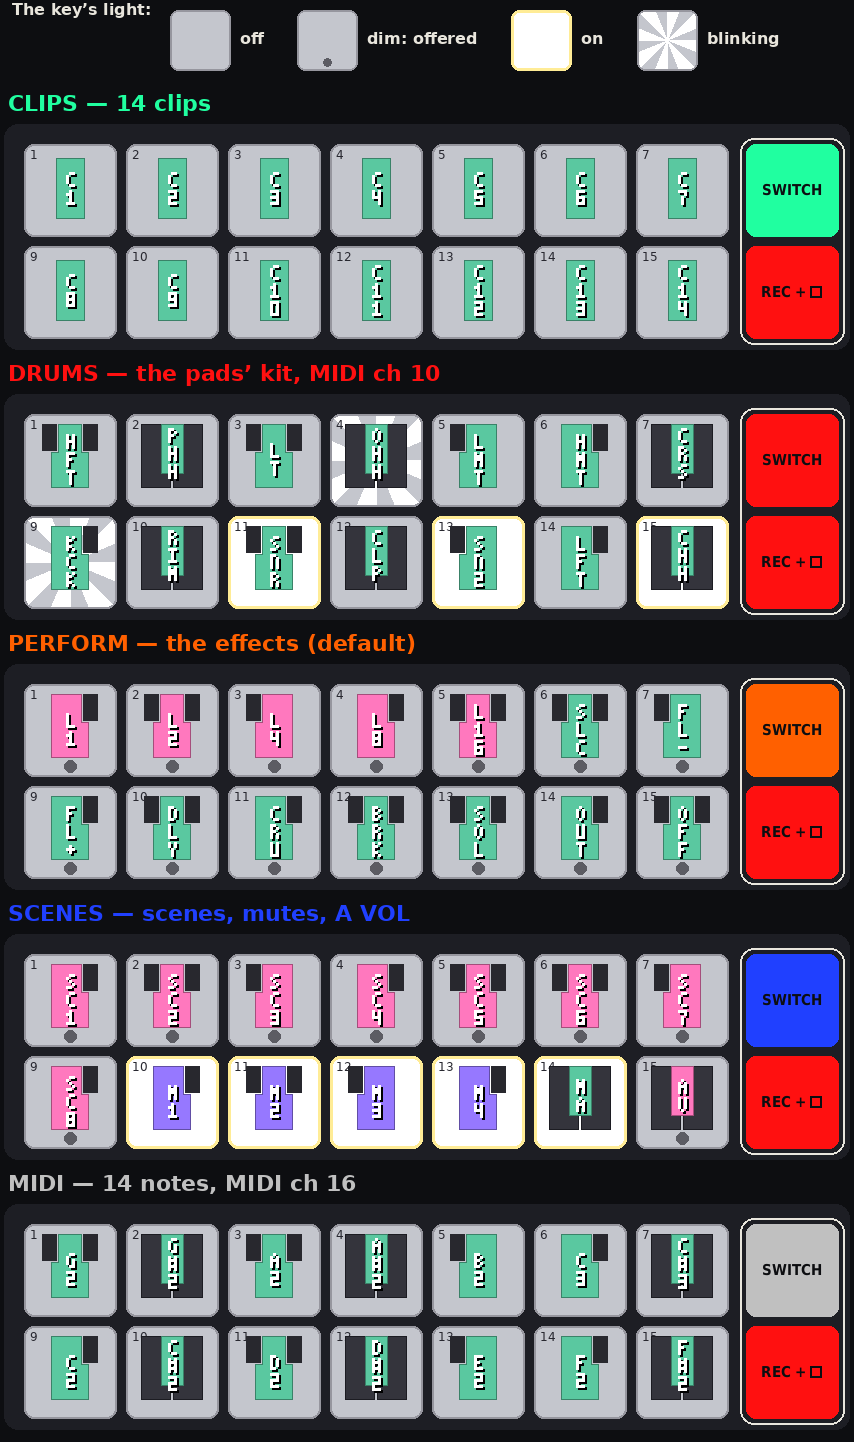
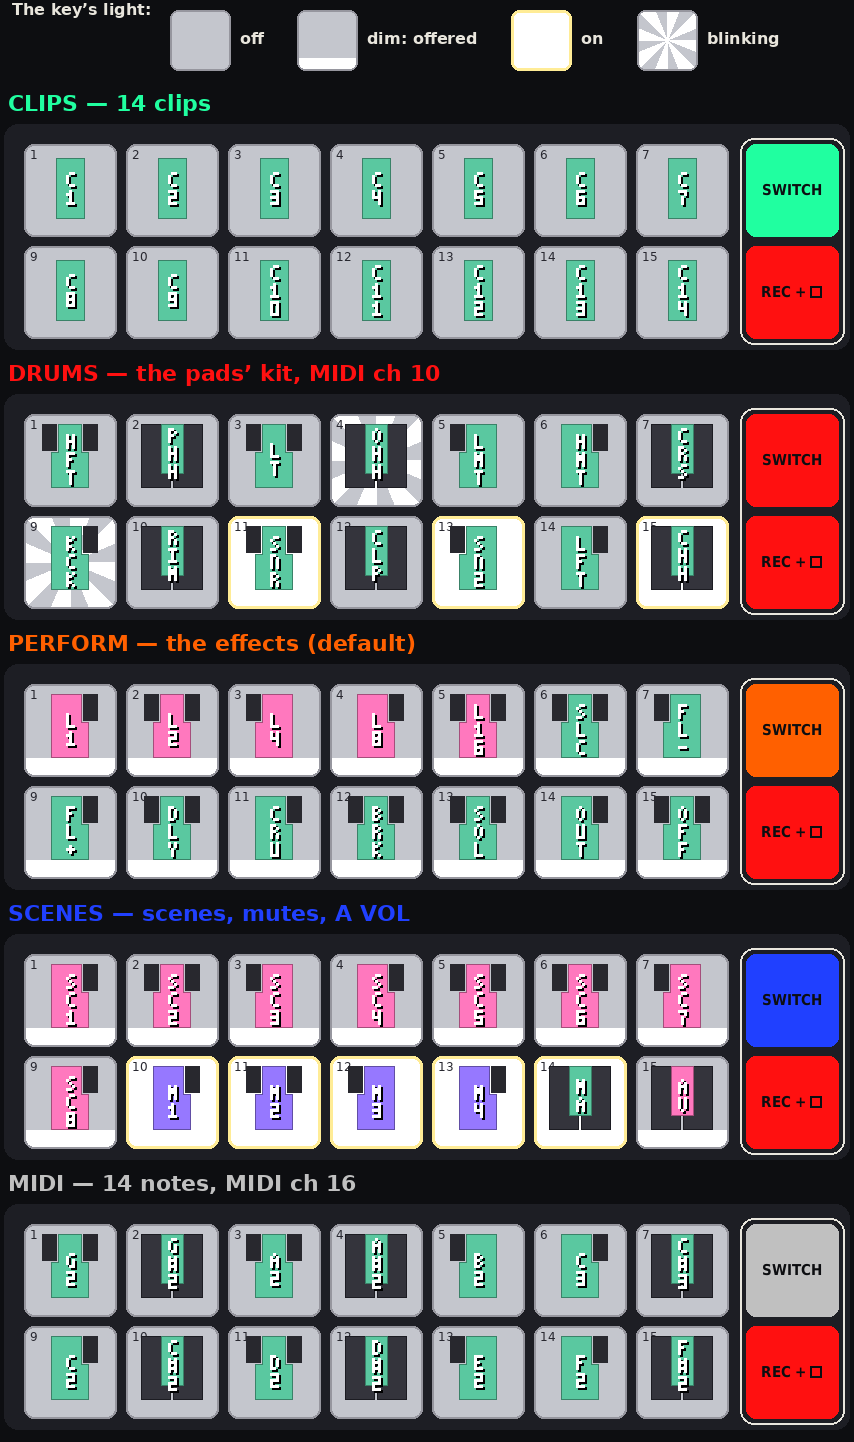
Pads as keys: offered = a white band at the bottom of the pad
Claude-Session: https://claude.ai/code/session_01N9f4HJn3ZZ4mEGDi7YNfQW

diff --git a/docs/_FR/22-reperes-ecran-et-menus.md b/docs/_FR/22-reperes-ecran-et-menus.md
@@ -228,7 +228,7 @@ Trois niveaux de lecture. 1 — tous les modes en toutes lettres, dans les coule
 
 <p align="center"><img src="../img/pads-all-modes-short.png" width="560" alt="pads"></p>
 
-3 — chaque pad avec la touche qu’il remplace, comme le clavier à l’écran la dessine (même fonction, même couleur : rose = validé au relâché sur le clavier, menthe = agit tout de suite, violet = piste qui joue ; une touche noire entre ses deux blanches gris foncé). Le fond du pad montre la lumière de cette touche par défaut, couche tenue, en lecture, les quatre pistes qui jouent : gris clair éteinte, pastille grise en bas proposée, blanc vif allumée, rayons blancs sur gris clignotante (en DRUMS, une piste de batterie : grosses caisses et charley ouvert clignotent, caisses claires et charley fermé allumés) :
+3 — chaque pad avec la touche qu’il remplace, comme le clavier à l’écran la dessine (même fonction, même couleur : rose = validé au relâché sur le clavier, menthe = agit tout de suite, violet = piste qui joue ; une touche noire entre ses deux blanches gris foncé). Le fond du pad montre la lumière de cette touche par défaut, couche tenue, en lecture, les quatre pistes qui jouent : gris clair éteinte, bandeau blanc en bas proposée, blanc vif allumée, rayons blancs sur gris clignotante (en DRUMS, une piste de batterie : grosses caisses et charley ouvert clignotent, caisses claires et charley fermé allumés) :
 
 <p align="center"><img src="../img/pads-all-modes-keys.png" width="560" alt="pads"></p>
 

diff --git a/docs/_EN/22-screen-keyboard-and-menus.md b/docs/_EN/22-screen-keyboard-and-menus.md
@@ -228,7 +228,7 @@ Three levels. 1 — every mode in full words, in the pads’ colours:
 
 <p align="center"><img src="../img/pads-all-modes-short.png" width="560" alt="pads"></p>
 
-3 — each pad with the key it stands for, as the screen keyboard draws it (same function, same colour: pink = valid on release on the keyboard, mint = acts at once, violet = a track playing; a black key between its two white keys in dark grey). The pad’s background shows that key’s light by default, layer held, playing, the four tracks playing: light grey off, a grey dot at the bottom offered, bright white on, white rays on grey blinking (DRUMS, a drum track: kicks and the open hat blink, snares and the closed hat lit):
+3 — each pad with the key it stands for, as the screen keyboard draws it (same function, same colour: pink = valid on release on the keyboard, mint = acts at once, violet = a track playing; a black key between its two white keys in dark grey). The pad’s background shows that key’s light by default, layer held, playing, the four tracks playing: light grey off, a white band at the bottom offered, bright white on, white rays on grey blinking (DRUMS, a drum track: kicks and the open hat blink, snares and the closed hat lit):
 
 <p align="center"><img src="../img/pads-all-modes-keys.png" width="560" alt="pads"></p>
 

diff --git a/README.md b/README.md
@@ -46,7 +46,7 @@ In short:
 
 And each pad as the key it stands for, drawn as the screen keyboard draws it (pink: valid on release on the keyboard,
 mint: acts at once, violet: a track playing); the pad's background shows that key's light by default, layer held and
-playing: light grey off, a grey dot at the bottom offered, bright white on, white rays on grey blinking:
+playing: light grey off, a white band at the bottom offered, bright white on, white rays on grey blinking:
 
 <p align="center"><img src="docs/img/pads-all-modes-keys.png" width="560" alt="Each pad with the key it stands for, in the screen keyboard's colours"></p>
 
